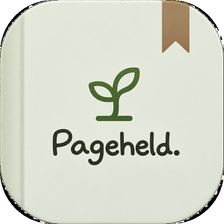
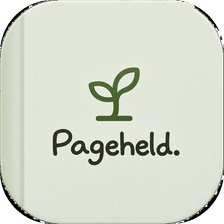
Release Pageheld 1.5 phone and tablet notebook editions

Changed region(s): [[0.7188, 0.0, 0.875, 0.25]]

diff --git a/app/src/main/java/app/pageheld/NotebookSpread.kt b/app/src/main/java/app/pageheld/NotebookSpread.kt
@@ -1,0 +1,63 @@
+package app.pageheld
+
+import androidx.compose.foundation.*
+import androidx.compose.foundation.layout.*
+import androidx.compose.foundation.lazy.LazyColumn
+import androidx.compose.foundation.lazy.items
+import androidx.compose.foundation.shape.RoundedCornerShape
+import androidx.compose.material3.HorizontalDivider
+import androidx.compose.material3.Text
+import androidx.compose.runtime.Composable
+import androidx.compose.ui.Alignment
+import androidx.compose.ui.Modifier
+import androidx.compose.ui.draw.clip
+import androidx.compose.ui.graphics.Brush
+import androidx.compose.ui.graphics.Color
+import androidx.compose.ui.unit.dp
+
+@Composable
+internal fun NotebookSpread(
+    pages: List<Page>, editor: String?, open: (Page) -> Unit,
+    modifier: Modifier, content: @Composable () -> Unit,
+) {
+    BoxWithConstraints(modifier, contentAlignment = Alignment.TopCenter) {
+        if (BuildConfig.FLAVOR != "tablet" || maxWidth < 840.dp) {
+            content()
+        } else {
+            Row(Modifier.widthIn(max = 1480.dp).fillMaxSize().padding(16.dp)
+                .background(sage, RoundedCornerShape(12.dp)).padding(5.dp)
+                .clip(RoundedCornerShape(8.dp)).background(ivory)) {
+                LazyColumn(
+                    Modifier.weight(.85f).fillMaxHeight().paper(),
+                    contentPadding = PaddingValues(horizontal = 36.dp, vertical = 32.dp),
+                    verticalArrangement = Arrangement.spacedBy(12.dp),
+                ) {
+                    if (editor == null) {
+                        item { Title("Notebook index", 26) }
+                        if (pages.isEmpty()) item { Note("Your saved pages will appear here.") }
+                        items(pages, key = { it.id }) { page ->
+                            Column(Modifier.fillMaxWidth().clickable { open(page) }.padding(vertical = 6.dp)) {
+                                Note(stamp(page.created, "yMMMd"))
+                                Title(page.heading(), 18)
+                                HorizontalDivider(color = edge)
+                            }
+                        }
+                    } else {
+                        val index = pages.indexOfFirst { it.id == editor }
+                        val facing = pages.getOrNull(index + 1)
+                        item { Note("Facing page") }
+                        if (facing != null) {
+                            item { Note(stamp(facing.created, "yMMMd")); Title(facing.heading(), 24) }
+                            item { Text(facing.body, fontSize = uiSp(18), lineHeight = uiSp(30), color = ink) }
+                        }
+                    }
+                }
+                Spacer(Modifier.fillMaxHeight().width(15.dp).background(Brush.horizontalGradient(
+                    listOf(ivory, Color(0xffc8bfab), Color(0xffe6decd), ivory))))
+                Box(Modifier.weight(1.15f).fillMaxHeight(), contentAlignment = Alignment.TopCenter) {
+                    content()
+                }
+            }
+        }
+    }
+}

diff --git a/app/src/main/java/app/pageheld/BookMotion.kt b/app/src/main/java/app/pageheld/BookMotion.kt
@@ -200,32 +200,7 @@ internal fun BookCover(motion: Boolean, onOpen: () -> Unit) {
                         androidx.compose.ui.geometry.CornerRadius(6.dp.toPx()),
                         style = Stroke(.7.dp.toPx()),
                     )
-                    val ribbonStart = w * .70f
-                    val ribbonWidth = w * .075f
-                    val ribbonEnd = ribbonStart + ribbonWidth
-                    val tip = maxOf(topInset + 46.dp.toPx(), h * .186f)
-                    val ribbon = Path().apply {
-                        moveTo(ribbonStart, 0f)
-                        lineTo(ribbonEnd, 0f)
-                        lineTo(ribbonEnd, tip)
-                        lineTo(ribbonStart + ribbonWidth / 2, tip - ribbonWidth * .45f)
-                        lineTo(ribbonStart, tip)
-                        close()
-                    }
-                    drawPath(ribbon, ink.copy(alpha = .17f), style = Stroke(1.6.dp.toPx()))
-                    drawPath(ribbon, Brush.horizontalGradient(
-                        0f to Color(0xff8e7357),
-                        .17f to Color(0xffa98c66),
-                        .52f to Color(0xffaf9470),
-                        .89f to Color(0xff9e815d),
-                        1f to Color(0xff8c7053),
-                        startX = ribbonStart,
-                        endX = ribbonEnd,
-                    ))
-                    drawPath(ribbon, Brush.verticalGradient(
-                        listOf(Color(0xff523e2b).copy(alpha = .25f), Color.Transparent),
-                        endY = 24.dp.toPx(),
-                    ))
+
                 }
                 .drawWithContent {
                     drawContent()

diff --git a/app/src/main/java/app/pageheld/MainActivity.kt b/app/src/main/java/app/pageheld/MainActivity.kt
@@ -117,12 +117,12 @@ private fun NotebookScreens(
         Modifier.fillMaxSize().background(ivory),
         contentAlignment = Alignment.TopCenter,
     ) {
-        Box(
+        NotebookSpread(
+            pages, editor, ::open,
             Modifier.fillMaxSize()
                 .windowInsetsPadding(WindowInsets.safeDrawing)
                 .imePadding()
                 .then(if (showCover) Modifier.clearAndSetSemantics {} else Modifier),
-            contentAlignment = Alignment.TopCenter,
         ) {
             if (data == null || locations == null || preferences == null)
                 CircularProgressIndicator()

diff --git a/README.md b/README.md
@@ -2,17 +2,18 @@
 
 <img src="docs/readme/pageheld-icon.png" alt="Pageheld app icon" width="112">
 
-[![Download Pageheld for Android](docs/readme/download-android.svg)](https://github.com/minsmakes/Pageheld/releases/latest/download/Pageheld.apk)
+[![Download phone edition](docs/readme/download-android.svg)](https://github.com/minsmakes/Pageheld/releases/latest/download/Pageheld.apk)
+[![Download tablet edition](docs/readme/download-tablet.svg)](https://github.com/minsmakes/Pageheld/releases/latest/download/Pageheld-Tablet.apk)
 
-Version 1.4 · Android 9 or newer · [Direct APK link](https://github.com/minsmakes/Pageheld/releases/latest/download/Pageheld.apk)
+Version 1.5 · Android 9 or newer · [Phone APK](https://github.com/minsmakes/Pageheld/releases/latest/download/Pageheld.apk) · [Tablet APK](https://github.com/minsmakes/Pageheld/releases/latest/download/Pageheld-Tablet.apk)
 
 Pageheld is a personal journal for Android. Write on ruled ivory paper, keep photos beside your words, and revisit pages by chapter or place. Your notebook stays on your device.
 
-## Install on your phone
+## Install on your Android device
 
-1. On your Android phone, tap **Download Pageheld for Android** above. The file is called **Pageheld.apk**. An APK is an Android app installer.
+1. Choose **Download for phone** (Pageheld.apk) or **Download for tablet** (Pageheld-Tablet.apk). An APK is an Android app installer.
 2. Your browser may warn you about downloading an app file. Check that you followed the Pageheld link above before choosing **Download** or **Keep**.
-3. Tap the finished download, or find **Pageheld.apk** in **Files → Downloads**. Pageheld comes from GitHub, outside Google Play. If Android asks for permission, tap **Settings**, enable **Allow from this source** for the browser or Files app that opened the download, then go back.
+3. Tap the finished download, or find the downloaded APK in **Files → Downloads**. Pageheld comes from GitHub, outside Google Play. If Android asks for permission, tap **Settings**, enable **Allow from this source** for the browser or Files app that opened the download, then go back.
 4. Tap **Install**, then **Open**. Keep Google Play Protect enabled and allow it to scan the app if asked. If it flags the app as harmful, stop the installation.
 5. After installing, search your phone’s Settings for **Install unknown apps**, select the same browser or Files app, and turn **Allow from this source** off again. The wording varies by phone. [Android installation help](https://support.google.com/android/answer/9457058)
 
@@ -30,17 +31,25 @@ For a new version, use the same download link and tap **Update**. Android keeps 
 
 If you already use a development build, Android may report a signature conflict. Keep that copy installed while you export your notebook and check that you have the backup file and passphrase. Uninstalling Pageheld erases the journal stored on the device.
 
-![Five Pageheld screens captured from the Android emulator](docs/design/screenshots/overview.png)
+## Phone edition
+
+![Phone cover, Today and writing page](docs/design/screenshots/overview.png)
+
+## Tablet edition
+
+On a wide tablet such as the Galaxy Tab S8 Ultra, turn the device sideways to open a two-page spread. Tap a title in the left-hand index to write on the right. While editing, the facing page shows the previous entry when available. In a narrow window, the editor uses the full page.
+
+![Tablet cover and open diary with facing pages in landscape](docs/design/screenshots/tablet/overview.png)
 
 ## Build from source
 
 Open the repository root in Android Studio. Use JDK 21, install Android SDK Platform 37, sync Gradle, and run the `app` configuration on Android 9 (API 28) or later. On Windows with the SDK and JDK configured, build the debug APK with:
 
 ```powershell
-.\gradlew.bat :app:assembleDebug
+.\gradlew.bat :app:assemblePhoneDebug :app:assembleTabletDebug
 ```
 
-The APK is written to `app/build/outputs/apk/debug/app-debug.apk`. A fresh installation opens an empty journal. The pages, places and chapters in the screenshots are review fixtures from a dedicated emulator.
+The debug installers are under `app/build/outputs/apk/phone/debug/` and `app/build/outputs/apk/tablet/debug/`. A fresh installation opens an empty journal. The pages, places and chapters in the screenshots are review fixtures from a dedicated emulator.
 
 ## Using the notebook
 
